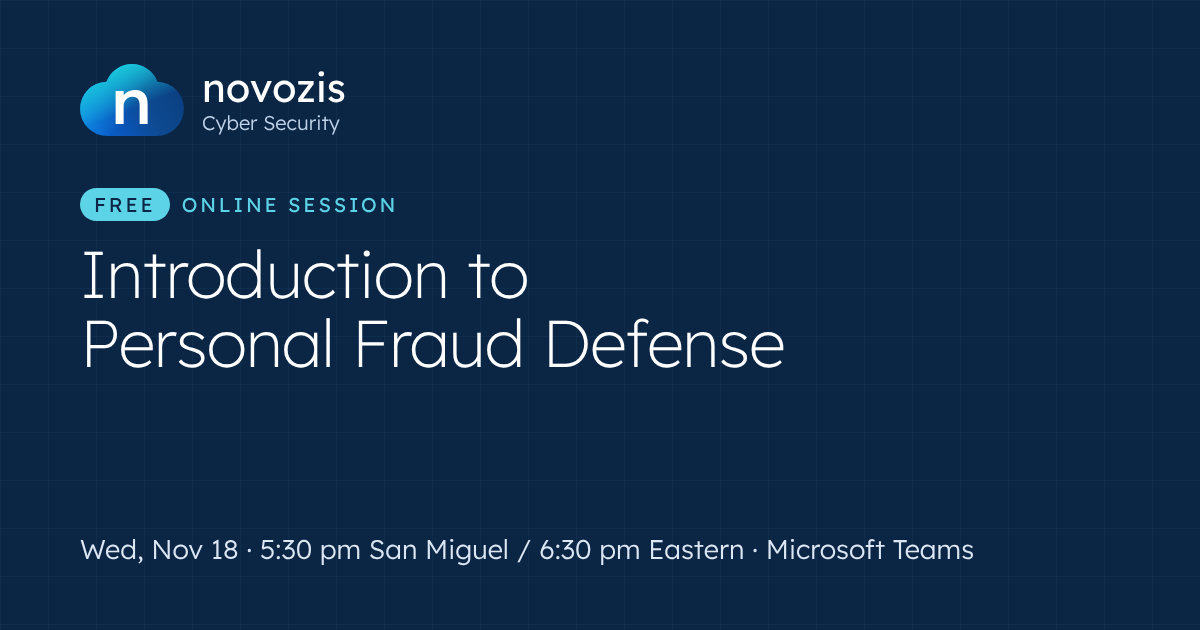
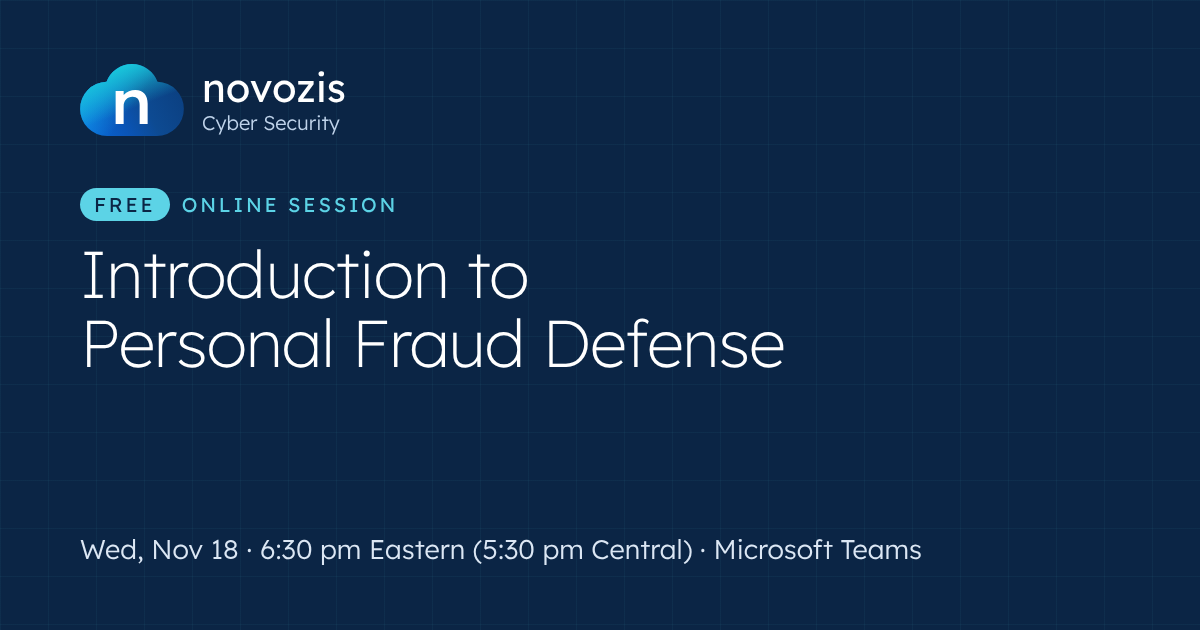
Event: show 6:30 pm Eastern (5:30 pm Central)
Claude-Session: https://claude.ai/code/session_011RswdC2ri86C8QnhV596gp

Changed region(s): [[0.3083, 0.8444, 0.8017, 0.9048], [0.2158, 0.8444, 0.2467, 0.8746]]

diff --git a/fraud-session/index.html b/fraud-session/index.html
@@ -4,9 +4,9 @@
 <meta charset="utf-8">
 <meta name="viewport" content="width=device-width, initial-scale=1">
 <title>Free Session: Introduction to Personal Fraud Defense | Novozis Cyber Security</title>
-<meta name="description" content="A free 30-minute online session on spotting scams and protecting yourself. Wednesday, November 18, 5:30 pm San Miguel time (6:30 pm US Eastern), on Microsoft Teams.">
+<meta name="description" content="A free 30-minute online session on spotting scams and protecting yourself. Wednesday, November 18, 6:30 pm Eastern (5:30 pm Central), on Microsoft Teams.">
 <meta property="og:title" content="Free online session: Introduction to Personal Fraud Defense">
-<meta property="og:description" content="Wednesday, November 18 · 5:30 pm San Miguel / 6:30 pm US Eastern · 30 minutes on Microsoft Teams. Free, no sign-up needed.">
+<meta property="og:description" content="Wednesday, November 18 · 6:30 pm Eastern (5:30 pm Central) · 30 minutes on Microsoft Teams. Free, no sign-up needed.">
 <meta property="og:type" content="website">
 <meta property="og:url" content="https://novozis.com/fraud-session/">
 <meta property="og:image" content="https://novozis.com/fraud-session/share.png">
@@ -97,7 +97,7 @@ footer a{text-decoration:none}
       <p class="lede">Scam calls, fake bank alerts, "unpaid toll" texts, and now AI-cloned voices. Learn how today's scams work and the simple steps that stop them.</p>
       <dl class="when">
         <div><dt>Date</dt><dd>Wednesday, November 18</dd></div>
-        <div><dt>Time</dt><dd>5:30–6:00 pm San Miguel<br><span style="font-weight:300;color:var(--on-dark);font-size:16px">6:30 pm US Eastern</span></dd></div>
+        <div><dt>Time</dt><dd>6:30–7:00 pm Eastern<br><span style="font-weight:300;color:var(--on-dark);font-size:16px">(5:30 pm Central)</span></dd></div>
         <div><dt>Where</dt><dd>Online, Microsoft Teams</dd></div>
       </dl>
       <p class="local" id="local-time"></p>
@@ -121,7 +121,7 @@ footer a{text-decoration:none}
 
       <div class="card live-only">
         <h2>Join on the day</h2>
-        <p>Click below a few minutes before 5:30 pm San Miguel time (6:30 pm Eastern).</p>
+        <p>Click below a few minutes before 6:30 pm Eastern (5:30 pm Central).</p>
         <a class="btn btn-primary" href="https://teams.microsoft.com/l/meetup-join/19%3ameeting_MjQwNTFmZWQtMjQzMS00MWU0LWFhMTYtZGRkOTlhMjhhN2Vi%40thread.v2/0?context=%7b%22Tid%22%3a%229039eb8a-2d5d-40a6-86ba-eb1694c8c453%22%2c%22Oid%22%3a%228ab11536-5775-4137-aba5-2863083b002a%22%7d" target="_blank" rel="noopener">Join on Microsoft Teams
           <svg width="16" height="16" viewBox="0 0 24 24" fill="none" stroke="currentColor" stroke-width="1.8" stroke-linecap="round" stroke-linejoin="round" aria-hidden="true"><path d="M5 12h14M13 6l6 6-6 6"/></svg></a>
         <p class="join-note">No download needed. On a computer, choose <strong>"Continue on this browser."</strong> On a phone, Teams may ask you to install its free app.</p>

diff --git a/index.html b/index.html
@@ -191,7 +191,7 @@ footer .name span{font-weight:300;font-size:14px;color:#9FB5D1}
           <div class="eyebrow"><span class="pill">Free</span> Upcoming online session</div>
           <h2 id="event-title">Introduction to Personal Fraud Defense</h2>
           <p>A practical 30-minute session on how today's scams work, from fake bank alerts to AI-cloned voices, and the simple steps that stop them. No sign-up needed.</p>
-          <div class="meta">Wednesday, November 18 · 5:30 pm San Miguel <span>/ 6:30 pm US Eastern · Microsoft Teams</span></div>
+          <div class="meta">Wednesday, November 18 · 6:30 pm Eastern <span>(5:30 pm Central) · Microsoft Teams</span></div>
         </div>
         <div class="event-actions">
           <a class="btn btn-primary" href="fraud-session/">Add to calendar &amp; join
